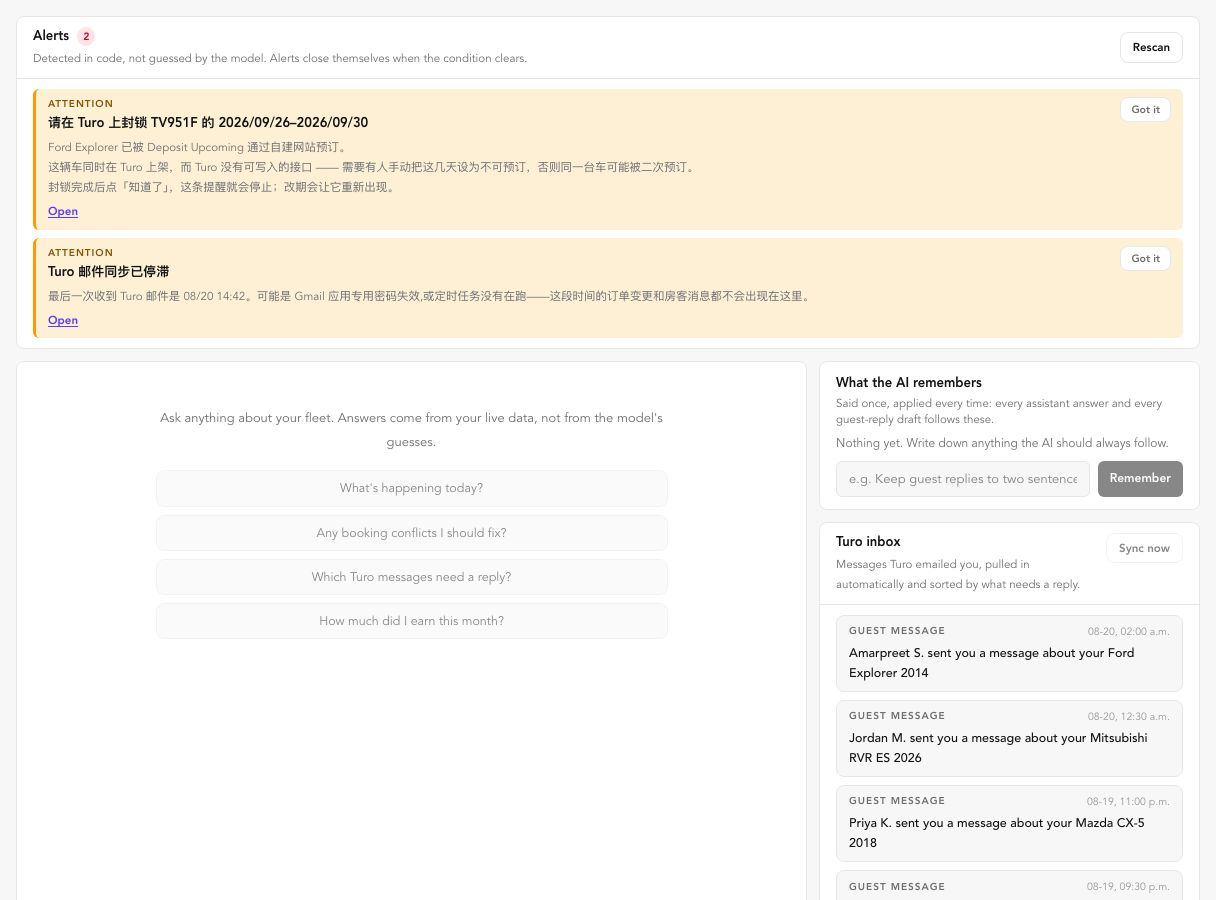
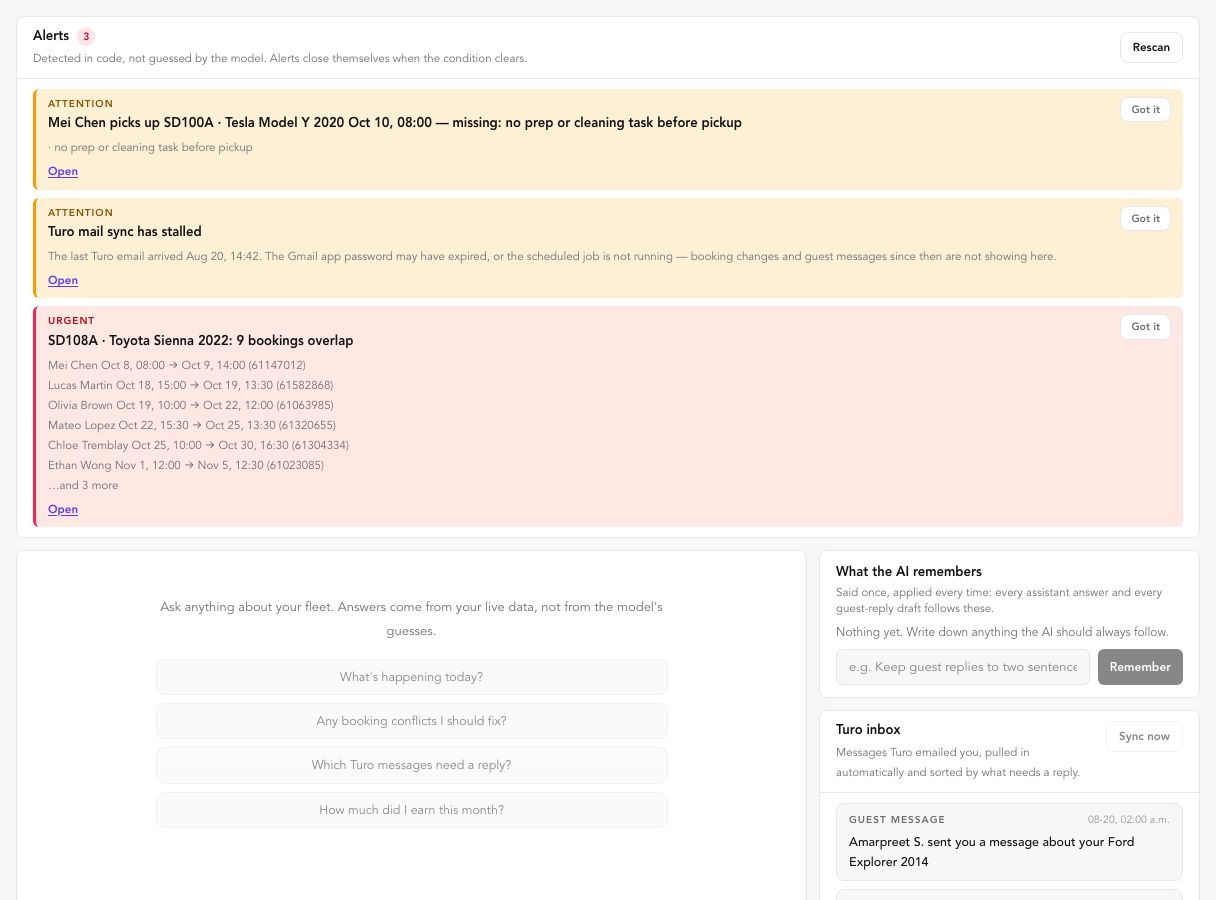
Help manual shows English assistant alerts; new sidebar pages need a guide
The assistant screenshots are retaken now that alerts follow the
viewer's language (v1.59.1), with the demo alerts trimmed to three so
the chat and inbox stay in the picture. The capture script rescans
alerts first so they match the language being shot (RESCAN=0 keeps
them). CLAUDE.md says a page added to the sidebar also needs its guide
and screenshots, which CI's check:help enforces.

diff --git a/CLAUDE.md b/CLAUDE.md
@@ -34,7 +34,9 @@
   `lib/i18n/zh-hant/` 是生成的——改完简体跑 `npm run i18n:zh-hant`，否则 CI 红
 - `lib/zh-hant-convert.ts`：归底座，但有两个调用方、两种模式——界面文案（`scripts/generate-zh-hant.ts`）转成台湾用语；
   网站运营方自己写的内容（`lib/rental-site-page.tsx`）只转字形，否则「列治文本地」会变成「列治文字地」。改覆盖规则两边都要顾到
-- `components/app-shell.tsx` `nav-icons.ts`：归底座。加页面要同时加导航，并在 `middleware.ts` 的 `protectedPrefixes` 里登记
+- `components/app-shell.tsx` `nav-icons.ts`：归底座。加页面要同时加导航，并在 `middleware.ts` 的 `protectedPrefixes` 里登记；
+  加进侧边栏的页面还要在 `app/(admin)/help/guides/{zh,en}.ts` 补指南、在 `public/help/pages/{zh,en}/` 补截图
+  （`scripts/capture-help-screenshots.cjs` 用本地演示数据拍），否则 CI 的 `check:help` 红
 - `middleware.ts`：登录保护归底座，网站多语言路由（`site-locale`）归租车网站
 - `components/calendar-view.tsx`、`app/(admin)/calendar/page.tsx`、`messages/calendar.ts`：网格、订单、备注、选择、订阅归运营；
   **价格层**（v1.1.0「Prices live on the calendar」）归租车网站
